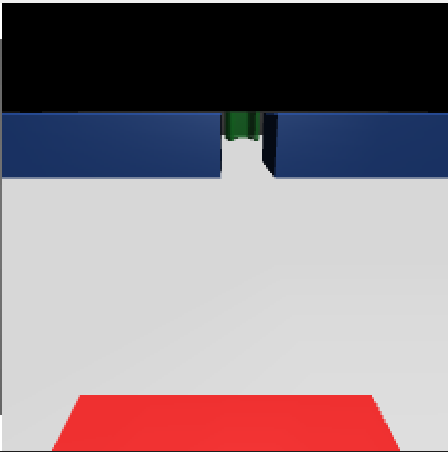
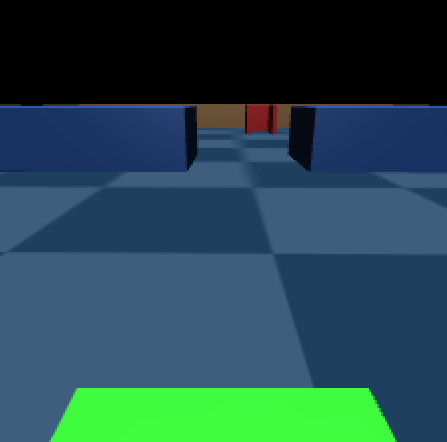
feat: Update environment configurations and improve visual elements in base_peg.xml and maze_model.py

diff --git a/planar_peg/envs/maze_model.py b/planar_peg/envs/maze_model.py
@@ -128,7 +128,7 @@ class MazeModel:
                         'name': f'wall_geom_{r}_{c}',
                         'type': 'box',
                         'size': f'{half_w} {half_w} 0.05',
-                        'rgba': '0.3 0.3 0.3 1.0',
+                        'rgba': '0.7 0.5 0.3 1.0',
                         'condim': '3'
                     })
                     
@@ -171,7 +171,7 @@ class MazeModel:
                         'type': 'box',
                         'pos': '0.0975 0 0',
                         'size': f'{wall_t} {wall_y_pos} 0.05',
-                        'rgba': '0.1 0.7 0.2 1.0',
+                        'rgba': '0.9 0.1 0.1 1.0',
                         'condim': '3'
                     })
                     
@@ -181,7 +181,7 @@ class MazeModel:
                         'type': 'box',
                         'pos': f'0.025 {wall_y_pos} 0',
                         'size': f'{inner_d} {wall_t} 0.05',
-                        'rgba': '0.1 0.7 0.2 1.0',
+                        'rgba': '0.9 0.1 0.1 1.0',
                         'condim': '3'
                     })
                     
@@ -191,7 +191,7 @@ class MazeModel:
                         'type': 'box',
                         'pos': f'0.025 {-wall_y_pos} 0',
                         'size': f'{inner_d} {wall_t} 0.05',
-                        'rgba': '0.1 0.7 0.2 1.0',
+                        'rgba': '0.9 0.1 0.1 1.0',
                         'condim': '3'
                     })
                     

diff --git a/planar_peg/envs/peg_env.py b/planar_peg/envs/peg_env.py
@@ -19,7 +19,7 @@ class PlanarPegEnv(gym.Env):
         self,
         grid: Optional[Union[str, list]] = "default",
         cell_size: float = 0.2,
-        n_substeps: int = 10,
+        n_substeps: int = 5,
         render_mode: Optional[str] = None,
         max_episode_steps: int = 250,
     ):
